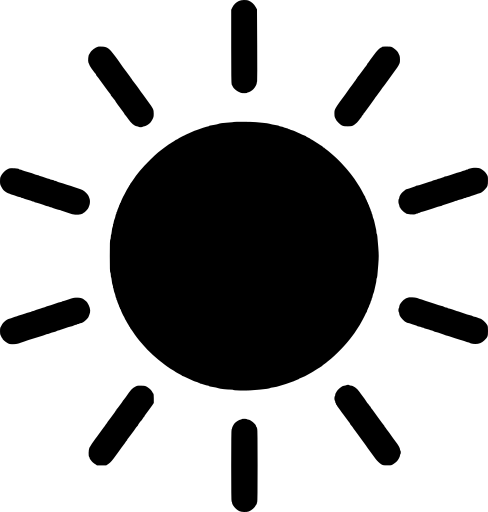
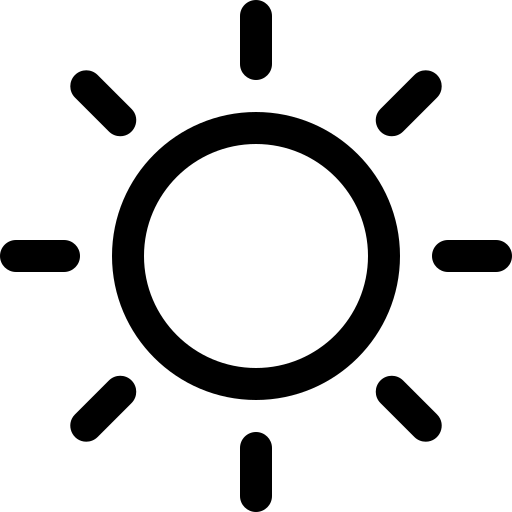
maj mode sombre

diff --git a/assets/css/style.css b/assets/css/style.css
@@ -12,77 +12,11 @@ body {
 
 body {
   background-color: var(--bleu-milieu);
-  margin: 0;
 }
 
 body.ClairSombre {
   background-color: black;
   color: white;
-}
-
-/* Titre */
-
-h1,
-h2,
-h3,
-h4 {
-  font-family: var(--typo-titre);
-  color: black;
-}
-
-h1 {
-  text-align: center;
-  font-size: 2.5em;
-  margin: 40px 40px 60px 60px;
-  background-color: var(--bleu-clair);
-}
-
-h2 {
-  font-size: 1.4em;
-}
-
-h3 {
-  font-size: 1.2em;
-}
-
-h4 {
-  font-size: 1.1em;
-}
-
-body.ClairSombre h1,
-body.ClairSombre h2,
-body.ClairSombre h3,
-body.ClairSombre h4 {
-  color: white;
-}
-
-/* Paragraphe*/
-
-p,
-.lien_entreprise {
-  font-family: var(--typo-texte);
-  font-size: 1.25em;
-  color: black;
-  text-justify: distribute;
-  margin: 2em 1em;
-}
-
-.lien_entreprise {
-  text-decoration: underline;
-  font-size: 1em;
-  margin: 0;
-}
-
-body.ClairSombre p,
-body.ClairSombre .lien_entreprise {
-  color: white;
-}
-/* TODO bug mode sombre sur lien entreprise*/
-
-/* IMAGES */
-
-img {
-  align-items: center;
 }
 
 /* --------------------------------------
@@ -165,6 +99,30 @@ header {
   width: auto;
   max-width: 80px;
   height: auto;
+}
+
+.imgSoleil,
+.imgLune {
+  width: auto;
+  max-width: 50px;
+  height: auto;
+  cursor: pointer;
+}
+
+.imgSoleil {
+  display: block;
+}
+
+.imgLune {
+  display: none;
+}
+
+body.ClairSombre #toogleBackground .imgSoleil {
+  display: none;
+}
+
+body.ClairSombre #toogleBackground .imgLune {
+  display: block;
 }
 
 /*------------------------------------------
@@ -307,3 +265,68 @@ footer {
 /* ---------------------------------------
 
 ----------------------------------------*/
+
+/* Titre */
+
+h1,
+h2,
+h3,
+h4 {
+  font-family: var(--typo-titre);
+  color: black;
+}
+
+h1 {
+  text-align: center;
+  font-size: 2.5em;
+  margin: 40px 40px 60px 60px;
+  background-color: var(--bleu-clair);
+}
+
+h2 {
+  font-size: 1.4em;
+}
+
+h3 {
+  font-size: 1.2em;
+}
+
+h4 {
+  font-size: 1.1em;
+}
+
+body.ClairSombre h1,
+body.ClairSombre h2,
+body.ClairSombre h3,
+body.ClairSombre h4 {
+  color: white;
+}
+
+/* Paragraphe*/
+
+p,
+.lien_entreprise {
+  font-family: var(--typo-texte);
+  font-size: 1.25em;
+  color: black;
+  text-justify: distribute;
+  margin: 2em 1em;
+}
+
+.lien_entreprise {
+  text-decoration: underline;
+  font-size: 1em;
+  margin: 0;
+}
+
+body.ClairSombre p,
+body.ClairSombre .lien_entreprise {
+  color: white;
+}
+/* TODO bug mode sombre sur lien entreprise*/
+
+/* IMAGES */
+
+img {
+  align-items: center;
+}

diff --git a/index.html b/index.html
@@ -52,7 +52,10 @@
           />
         </svg>
       </button>
-      <button id="toogleBackground">mode sombre</button>
+      <a id="toogleBackground">
+        <img src="assets/img/soleil.png" alt="Soleil" class="imgSoleil" />
+        <img src="assets/img/lune.png" alt="Lune" class="imgLune" />
+      </a>
     </header>
     <main>
       <img
